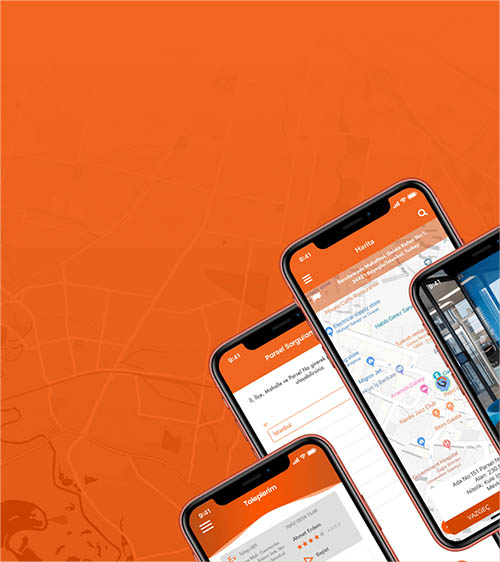
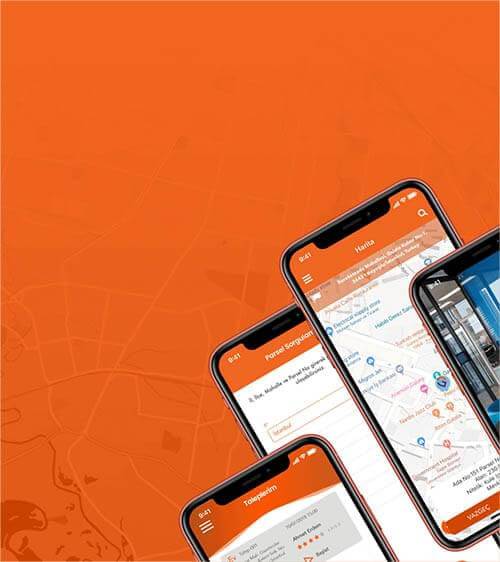
a few image optimiations for pagespeed

diff --git a/src/presentation/pages/index.html b/src/presentation/pages/index.html
@@ -85,7 +85,7 @@
             <div class="content-right p-0 d-flex justify-content-center col-md-6">
                 <img data-src="assets/img/brands/white/bmsumer-white.svg" class="white-brand" alt="">
                 <div class="illustration-bg"
-                     style="background-image:url('assets/img/illustration/home/bmsumer1@2x.png')">
+                     style="background-image:url('assets/img/illustration/home/bmsumer1@2x.jpg')">
                 </div>
             </div>
         </div>
@@ -111,7 +111,7 @@
             <div class="content-right  p-0 d-flex justify-content-center col-md-6">
                 <img data-src="assets/img/brands/white/hamidiye-white.svg" class="white-brand" alt="">
                 <div class="illustration-bg"
-                     style="background-image:url('assets/img/illustration/home/hamidiye1@2x.png')"></div>
+                     style="background-image:url('assets/img/illustration/home/hamidiye1@2x.jpg')"></div>
             </div>
         </div>
     </section>
@@ -136,7 +136,7 @@
             <div class="content-right  p-0 d-flex justify-content-center col-md-6">
                 <img data-src="assets/img/brands/white/podbia-white.svg" class="white-brand" alt="">
                 <div class="illustration-bg"
-                     style="background-image:url('assets/img/illustration/home/pannom1@2x.png')">
+                     style="background-image:url('assets/img/illustration/home/podbia@2x.png')">
                 </div>
             </div>
         </div>

diff --git a/gulpfile.js b/gulpfile.js
@@ -100,7 +100,11 @@ function copyFiles() {
         .src(['./src/assets/img/**/*', './src/assets/icons/**/*', './src/assets/font/**/*', './src/assets/presentation/**/*',
             './src/assets/animations/**/*'
         ], {base: './src/'})
-        //.pipe(imagemin({interlaced: true, progressive: true, optimizationLevel: 5, svgoPlugins: [{removeViewBox: true}]}))
+        .pipe(imagemin({
+            interlaced: true,
+            progressive: true,
+            optimizationLevel: 5,
+        }))
         .pipe(gulp.dest(dist))
 }
 
